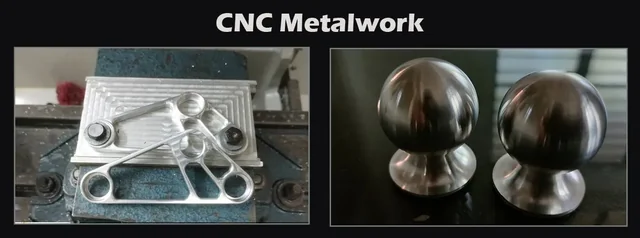
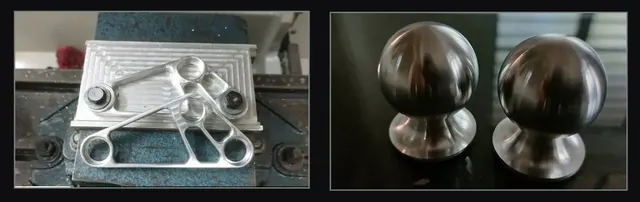
Slideshow: images only, without the CNC Metalwork heading
Claude-Session: https://claude.ai/code/session_019yPekh2JPsEvTpvfRCcA7z

diff --git a/1year/edmScooter/index.html b/1year/edmScooter/index.html
@@ -50,9 +50,9 @@
 </header>
 <main>
 <section class="banner" aria-label="Workshop highlights">
-<picture><source srcset="../../img/banner/04-light-640.webp 640w, ../../img/banner/04-light.webp 1224w" sizes="100vw" media="(prefers-color-scheme: light)"><img src="../../img/banner/04.webp" srcset="../../img/banner/04-640.webp 640w, ../../img/banner/04.webp 1224w" sizes="100vw" alt="CNC metalwork made in the TKMCE workshop" width="1224" height="455" decoding="async" class="on" fetchpriority="high"></picture>
-<picture><source srcset="../../img/banner/05-light-640.webp 640w, ../../img/banner/05-light.webp 1224w" sizes="100vw" media="(prefers-color-scheme: light)"><img src="../../img/banner/05.webp" srcset="../../img/banner/05-640.webp 640w, ../../img/banner/05.webp 1224w" sizes="100vw" alt="CNC metalwork made in the TKMCE workshop" width="1224" height="455" decoding="async" loading="lazy"></picture>
-<picture><source srcset="../../img/banner/07-light-640.webp 640w, ../../img/banner/07-light.webp 1224w" sizes="100vw" media="(prefers-color-scheme: light)"><img src="../../img/banner/07.webp" srcset="../../img/banner/07-640.webp 640w, ../../img/banner/07.webp 1224w" sizes="100vw" alt="CNC-machined chess pieces, and an India map shape made by CNC milling and wire EDM" width="1224" height="455" decoding="async" loading="lazy"></picture>
+<picture><source srcset="../../img/banner/04-light-640.webp 640w, ../../img/banner/04-light.webp 1224w" sizes="100vw" media="(prefers-color-scheme: light)"><img src="../../img/banner/04.webp" srcset="../../img/banner/04-640.webp 640w, ../../img/banner/04.webp 1224w" sizes="100vw" alt="CNC metalwork made in the TKMCE workshop" width="1224" height="386" decoding="async" class="on" fetchpriority="high"></picture>
+<picture><source srcset="../../img/banner/05-light-640.webp 640w, ../../img/banner/05-light.webp 1224w" sizes="100vw" media="(prefers-color-scheme: light)"><img src="../../img/banner/05.webp" srcset="../../img/banner/05-640.webp 640w, ../../img/banner/05.webp 1224w" sizes="100vw" alt="CNC metalwork made in the TKMCE workshop" width="1224" height="386" decoding="async" loading="lazy"></picture>
+<picture><source srcset="../../img/banner/07-light-640.webp 640w, ../../img/banner/07-light.webp 1224w" sizes="100vw" media="(prefers-color-scheme: light)"><img src="../../img/banner/07.webp" srcset="../../img/banner/07-640.webp 640w, ../../img/banner/07.webp 1224w" sizes="100vw" alt="CNC-machined chess pieces, and an India map shape made by CNC milling and wire EDM" width="1224" height="386" decoding="async" loading="lazy"></picture>
 <div class="dots"><button class="dot" type="button" aria-label="Show highlight 1" aria-current="true"></button><button class="dot" type="button" aria-label="Show highlight 2" aria-current="false"></button><button class="dot" type="button" aria-label="Show highlight 3" aria-current="false"></button></div>
 </section>
 <article class="job">

diff --git a/1year/latheBishop/index.html b/1year/latheBishop/index.html
@@ -52,9 +52,9 @@
 </header>
 <main>
 <section class="banner" aria-label="Workshop highlights">
-<picture><source srcset="../../img/banner/04-light-640.webp 640w, ../../img/banner/04-light.webp 1224w" sizes="100vw" media="(prefers-color-scheme: light)"><img src="../../img/banner/04.webp" srcset="../../img/banner/04-640.webp 640w, ../../img/banner/04.webp 1224w" sizes="100vw" alt="CNC metalwork made in the TKMCE workshop" width="1224" height="455" decoding="async" class="on" fetchpriority="high"></picture>
-<picture><source srcset="../../img/banner/05-light-640.webp 640w, ../../img/banner/05-light.webp 1224w" sizes="100vw" media="(prefers-color-scheme: light)"><img src="../../img/banner/05.webp" srcset="../../img/banner/05-640.webp 640w, ../../img/banner/05.webp 1224w" sizes="100vw" alt="CNC metalwork made in the TKMCE workshop" width="1224" height="455" decoding="async" loading="lazy"></picture>
-<picture><source srcset="../../img/banner/07-light-640.webp 640w, ../../img/banner/07-light.webp 1224w" sizes="100vw" media="(prefers-color-scheme: light)"><img src="../../img/banner/07.webp" srcset="../../img/banner/07-640.webp 640w, ../../img/banner/07.webp 1224w" sizes="100vw" alt="CNC-machined chess pieces, and an India map shape made by CNC milling and wire EDM" width="1224" height="455" decoding="async" loading="lazy"></picture>
+<picture><source srcset="../../img/banner/04-light-640.webp 640w, ../../img/banner/04-light.webp 1224w" sizes="100vw" media="(prefers-color-scheme: light)"><img src="../../img/banner/04.webp" srcset="../../img/banner/04-640.webp 640w, ../../img/banner/04.webp 1224w" sizes="100vw" alt="CNC metalwork made in the TKMCE workshop" width="1224" height="386" decoding="async" class="on" fetchpriority="high"></picture>
+<picture><source srcset="../../img/banner/05-light-640.webp 640w, ../../img/banner/05-light.webp 1224w" sizes="100vw" media="(prefers-color-scheme: light)"><img src="../../img/banner/05.webp" srcset="../../img/banner/05-640.webp 640w, ../../img/banner/05.webp 1224w" sizes="100vw" alt="CNC metalwork made in the TKMCE workshop" width="1224" height="386" decoding="async" loading="lazy"></picture>
+<picture><source srcset="../../img/banner/07-light-640.webp 640w, ../../img/banner/07-light.webp 1224w" sizes="100vw" media="(prefers-color-scheme: light)"><img src="../../img/banner/07.webp" srcset="../../img/banner/07-640.webp 640w, ../../img/banner/07.webp 1224w" sizes="100vw" alt="CNC-machined chess pieces, and an India map shape made by CNC milling and wire EDM" width="1224" height="386" decoding="async" loading="lazy"></picture>
 <div class="dots"><button class="dot" type="button" aria-label="Show highlight 1" aria-current="true"></button><button class="dot" type="button" aria-label="Show highlight 2" aria-current="false"></button><button class="dot" type="button" aria-label="Show highlight 3" aria-current="false"></button></div>
 </section>
 <article class="job">

diff --git a/1year/latheBowl/index.html b/1year/latheBowl/index.html
@@ -52,9 +52,9 @@
 </header>
 <main>
 <section class="banner" aria-label="Workshop highlights">
-<picture><source srcset="../../img/banner/04-light-640.webp 640w, ../../img/banner/04-light.webp 1224w" sizes="100vw" media="(prefers-color-scheme: light)"><img src="../../img/banner/04.webp" srcset="../../img/banner/04-640.webp 640w, ../../img/banner/04.webp 1224w" sizes="100vw" alt="CNC metalwork made in the TKMCE workshop" width="1224" height="455" decoding="async" class="on" fetchpriority="high"></picture>
-<picture><source srcset="../../img/banner/05-light-640.webp 640w, ../../img/banner/05-light.webp 1224w" sizes="100vw" media="(prefers-color-scheme: light)"><img src="../../img/banner/05.webp" srcset="../../img/banner/05-640.webp 640w, ../../img/banner/05.webp 1224w" sizes="100vw" alt="CNC metalwork made in the TKMCE workshop" width="1224" height="455" decoding="async" loading="lazy"></picture>
-<picture><source srcset="../../img/banner/07-light-640.webp 640w, ../../img/banner/07-light.webp 1224w" sizes="100vw" media="(prefers-color-scheme: light)"><img src="../../img/banner/07.webp" srcset="../../img/banner/07-640.webp 640w, ../../img/banner/07.webp 1224w" sizes="100vw" alt="CNC-machined chess pieces, and an India map shape made by CNC milling and wire EDM" width="1224" height="455" decoding="async" loading="lazy"></picture>
+<picture><source srcset="../../img/banner/04-light-640.webp 640w, ../../img/banner/04-light.webp 1224w" sizes="100vw" media="(prefers-color-scheme: light)"><img src="../../img/banner/04.webp" srcset="../../img/banner/04-640.webp 640w, ../../img/banner/04.webp 1224w" sizes="100vw" alt="CNC metalwork made in the TKMCE workshop" width="1224" height="386" decoding="async" class="on" fetchpriority="high"></picture>
+<picture><source srcset="../../img/banner/05-light-640.webp 640w, ../../img/banner/05-light.webp 1224w" sizes="100vw" media="(prefers-color-scheme: light)"><img src="../../img/banner/05.webp" srcset="../../img/banner/05-640.webp 640w, ../../img/banner/05.webp 1224w" sizes="100vw" alt="CNC metalwork made in the TKMCE workshop" width="1224" height="386" decoding="async" loading="lazy"></picture>
+<picture><source srcset="../../img/banner/07-light-640.webp 640w, ../../img/banner/07-light.webp 1224w" sizes="100vw" media="(prefers-color-scheme: light)"><img src="../../img/banner/07.webp" srcset="../../img/banner/07-640.webp 640w, ../../img/banner/07.webp 1224w" sizes="100vw" alt="CNC-machined chess pieces, and an India map shape made by CNC milling and wire EDM" width="1224" height="386" decoding="async" loading="lazy"></picture>
 <div class="dots"><button class="dot" type="button" aria-label="Show highlight 1" aria-current="true"></button><button class="dot" type="button" aria-label="Show highlight 2" aria-current="false"></button><button class="dot" type="button" aria-label="Show highlight 3" aria-current="false"></button></div>
 </section>
 <article class="job">

diff --git a/1year/latheRook/index.html b/1year/latheRook/index.html
@@ -52,9 +52,9 @@
 </header>
 <main>
 <section class="banner" aria-label="Workshop highlights">
-<picture><source srcset="../../img/banner/04-light-640.webp 640w, ../../img/banner/04-light.webp 1224w" sizes="100vw" media="(prefers-color-scheme: light)"><img src="../../img/banner/04.webp" srcset="../../img/banner/04-640.webp 640w, ../../img/banner/04.webp 1224w" sizes="100vw" alt="CNC metalwork made in the TKMCE workshop" width="1224" height="455" decoding="async" class="on" fetchpriority="high"></picture>
-<picture><source srcset="../../img/banner/05-light-640.webp 640w, ../../img/banner/05-light.webp 1224w" sizes="100vw" media="(prefers-color-scheme: light)"><img src="../../img/banner/05.webp" srcset="../../img/banner/05-640.webp 640w, ../../img/banner/05.webp 1224w" sizes="100vw" alt="CNC metalwork made in the TKMCE workshop" width="1224" height="455" decoding="async" loading="lazy"></picture>
-<picture><source srcset="../../img/banner/07-light-640.webp 640w, ../../img/banner/07-light.webp 1224w" sizes="100vw" media="(prefers-color-scheme: light)"><img src="../../img/banner/07.webp" srcset="../../img/banner/07-640.webp 640w, ../../img/banner/07.webp 1224w" sizes="100vw" alt="CNC-machined chess pieces, and an India map shape made by CNC milling and wire EDM" width="1224" height="455" decoding="async" loading="lazy"></picture>
+<picture><source srcset="../../img/banner/04-light-640.webp 640w, ../../img/banner/04-light.webp 1224w" sizes="100vw" media="(prefers-color-scheme: light)"><img src="../../img/banner/04.webp" srcset="../../img/banner/04-640.webp 640w, ../../img/banner/04.webp 1224w" sizes="100vw" alt="CNC metalwork made in the TKMCE workshop" width="1224" height="386" decoding="async" class="on" fetchpriority="high"></picture>
+<picture><source srcset="../../img/banner/05-light-640.webp 640w, ../../img/banner/05-light.webp 1224w" sizes="100vw" media="(prefers-color-scheme: light)"><img src="../../img/banner/05.webp" srcset="../../img/banner/05-640.webp 640w, ../../img/banner/05.webp 1224w" sizes="100vw" alt="CNC metalwork made in the TKMCE workshop" width="1224" height="386" decoding="async" loading="lazy"></picture>
+<picture><source srcset="../../img/banner/07-light-640.webp 640w, ../../img/banner/07-light.webp 1224w" sizes="100vw" media="(prefers-color-scheme: light)"><img src="../../img/banner/07.webp" srcset="../../img/banner/07-640.webp 640w, ../../img/banner/07.webp 1224w" sizes="100vw" alt="CNC-machined chess pieces, and an India map shape made by CNC milling and wire EDM" width="1224" height="386" decoding="async" loading="lazy"></picture>
 <div class="dots"><button class="dot" type="button" aria-label="Show highlight 1" aria-current="true"></button><button class="dot" type="button" aria-label="Show highlight 2" aria-current="false"></button><button class="dot" type="button" aria-label="Show highlight 3" aria-current="false"></button></div>
 </section>
 <article class="job">

diff --git a/cncLathe/index.html b/cncLathe/index.html
@@ -52,9 +52,9 @@
 </header>
 <main>
 <section class="banner" aria-label="Workshop highlights">
-<picture><source srcset="../img/banner/04-light-640.webp 640w, ../img/banner/04-light.webp 1224w" sizes="100vw" media="(prefers-color-scheme: light)"><img src="../img/banner/04.webp" srcset="../img/banner/04-640.webp 640w, ../img/banner/04.webp 1224w" sizes="100vw" alt="CNC metalwork made in the TKMCE workshop" width="1224" height="455" decoding="async" class="on" fetchpriority="high"></picture>
-<picture><source srcset="../img/banner/05-light-640.webp 640w, ../img/banner/05-light.webp 1224w" sizes="100vw" media="(prefers-color-scheme: light)"><img src="../img/banner/05.webp" srcset="../img/banner/05-640.webp 640w, ../img/banner/05.webp 1224w" sizes="100vw" alt="CNC metalwork made in the TKMCE workshop" width="1224" height="455" decoding="async" loading="lazy"></picture>
-<picture><source srcset="../img/banner/07-light-640.webp 640w, ../img/banner/07-light.webp 1224w" sizes="100vw" media="(prefers-color-scheme: light)"><img src="../img/banner/07.webp" srcset="../img/banner/07-640.webp 640w, ../img/banner/07.webp 1224w" sizes="100vw" alt="CNC-machined chess pieces, and an India map shape made by CNC milling and wire EDM" width="1224" height="455" decoding="async" loading="lazy"></picture>
+<picture><source srcset="../img/banner/04-light-640.webp 640w, ../img/banner/04-light.webp 1224w" sizes="100vw" media="(prefers-color-scheme: light)"><img src="../img/banner/04.webp" srcset="../img/banner/04-640.webp 640w, ../img/banner/04.webp 1224w" sizes="100vw" alt="CNC metalwork made in the TKMCE workshop" width="1224" height="386" decoding="async" class="on" fetchpriority="high"></picture>
+<picture><source srcset="../img/banner/05-light-640.webp 640w, ../img/banner/05-light.webp 1224w" sizes="100vw" media="(prefers-color-scheme: light)"><img src="../img/banner/05.webp" srcset="../img/banner/05-640.webp 640w, ../img/banner/05.webp 1224w" sizes="100vw" alt="CNC metalwork made in the TKMCE workshop" width="1224" height="386" decoding="async" loading="lazy"></picture>
+<picture><source srcset="../img/banner/07-light-640.webp 640w, ../img/banner/07-light.webp 1224w" sizes="100vw" media="(prefers-color-scheme: light)"><img src="../img/banner/07.webp" srcset="../img/banner/07-640.webp 640w, ../img/banner/07.webp 1224w" sizes="100vw" alt="CNC-machined chess pieces, and an India map shape made by CNC milling and wire EDM" width="1224" height="386" decoding="async" loading="lazy"></picture>
 <div class="dots"><button class="dot" type="button" aria-label="Show highlight 1" aria-current="true"></button><button class="dot" type="button" aria-label="Show highlight 2" aria-current="false"></button><button class="dot" type="button" aria-label="Show highlight 3" aria-current="false"></button></div>
 </section>
 <article class="job">

diff --git a/cncMilling/index.html b/cncMilling/index.html
@@ -52,9 +52,9 @@
 </header>
 <main>
 <section class="banner" aria-label="Workshop highlights">
-<picture><source srcset="../img/banner/04-light-640.webp 640w, ../img/banner/04-light.webp 1224w" sizes="100vw" media="(prefers-color-scheme: light)"><img src="../img/banner/04.webp" srcset="../img/banner/04-640.webp 640w, ../img/banner/04.webp 1224w" sizes="100vw" alt="CNC metalwork made in the TKMCE workshop" width="1224" height="455" decoding="async" class="on" fetchpriority="high"></picture>
-<picture><source srcset="../img/banner/05-light-640.webp 640w, ../img/banner/05-light.webp 1224w" sizes="100vw" media="(prefers-color-scheme: light)"><img src="../img/banner/05.webp" srcset="../img/banner/05-640.webp 640w, ../img/banner/05.webp 1224w" sizes="100vw" alt="CNC metalwork made in the TKMCE workshop" width="1224" height="455" decoding="async" loading="lazy"></picture>
-<picture><source srcset="../img/banner/07-light-640.webp 640w, ../img/banner/07-light.webp 1224w" sizes="100vw" media="(prefers-color-scheme: light)"><img src="../img/banner/07.webp" srcset="../img/banner/07-640.webp 640w, ../img/banner/07.webp 1224w" sizes="100vw" alt="CNC-machined chess pieces, and an India map shape made by CNC milling and wire EDM" width="1224" height="455" decoding="async" loading="lazy"></picture>
+<picture><source srcset="../img/banner/04-light-640.webp 640w, ../img/banner/04-light.webp 1224w" sizes="100vw" media="(prefers-color-scheme: light)"><img src="../img/banner/04.webp" srcset="../img/banner/04-640.webp 640w, ../img/banner/04.webp 1224w" sizes="100vw" alt="CNC metalwork made in the TKMCE workshop" width="1224" height="386" decoding="async" class="on" fetchpriority="high"></picture>
+<picture><source srcset="../img/banner/05-light-640.webp 640w, ../img/banner/05-light.webp 1224w" sizes="100vw" media="(prefers-color-scheme: light)"><img src="../img/banner/05.webp" srcset="../img/banner/05-640.webp 640w, ../img/banner/05.webp 1224w" sizes="100vw" alt="CNC metalwork made in the TKMCE workshop" width="1224" height="386" decoding="async" loading="lazy"></picture>
+<picture><source srcset="../img/banner/07-light-640.webp 640w, ../img/banner/07-light.webp 1224w" sizes="100vw" media="(prefers-color-scheme: light)"><img src="../img/banner/07.webp" srcset="../img/banner/07-640.webp 640w, ../img/banner/07.webp 1224w" sizes="100vw" alt="CNC-machined chess pieces, and an India map shape made by CNC milling and wire EDM" width="1224" height="386" decoding="async" loading="lazy"></picture>
 <div class="dots"><button class="dot" type="button" aria-label="Show highlight 1" aria-current="true"></button><button class="dot" type="button" aria-label="Show highlight 2" aria-current="false"></button><button class="dot" type="button" aria-label="Show highlight 3" aria-current="false"></button></div>
 </section>
 <article class="job">

diff --git a/cncMillingSub/index.html b/cncMillingSub/index.html
@@ -52,9 +52,9 @@
 </header>
 <main>
 <section class="banner" aria-label="Workshop highlights">
-<picture><source srcset="../img/banner/04-light-640.webp 640w, ../img/banner/04-light.webp 1224w" sizes="100vw" media="(prefers-color-scheme: light)"><img src="../img/banner/04.webp" srcset="../img/banner/04-640.webp 640w, ../img/banner/04.webp 1224w" sizes="100vw" alt="CNC metalwork made in the TKMCE workshop" width="1224" height="455" decoding="async" class="on" fetchpriority="high"></picture>
-<picture><source srcset="../img/banner/05-light-640.webp 640w, ../img/banner/05-light.webp 1224w" sizes="100vw" media="(prefers-color-scheme: light)"><img src="../img/banner/05.webp" srcset="../img/banner/05-640.webp 640w, ../img/banner/05.webp 1224w" sizes="100vw" alt="CNC metalwork made in the TKMCE workshop" width="1224" height="455" decoding="async" loading="lazy"></picture>
-<picture><source srcset="../img/banner/07-light-640.webp 640w, ../img/banner/07-light.webp 1224w" sizes="100vw" media="(prefers-color-scheme: light)"><img src="../img/banner/07.webp" srcset="../img/banner/07-640.webp 640w, ../img/banner/07.webp 1224w" sizes="100vw" alt="CNC-machined chess pieces, and an India map shape made by CNC milling and wire EDM" width="1224" height="455" decoding="async" loading="lazy"></picture>
+<picture><source srcset="../img/banner/04-light-640.webp 640w, ../img/banner/04-light.webp 1224w" sizes="100vw" media="(prefers-color-scheme: light)"><img src="../img/banner/04.webp" srcset="../img/banner/04-640.webp 640w, ../img/banner/04.webp 1224w" sizes="100vw" alt="CNC metalwork made in the TKMCE workshop" width="1224" height="386" decoding="async" class="on" fetchpriority="high"></picture>
+<picture><source srcset="../img/banner/05-light-640.webp 640w, ../img/banner/05-light.webp 1224w" sizes="100vw" media="(prefers-color-scheme: light)"><img src="../img/banner/05.webp" srcset="../img/banner/05-640.webp 640w, ../img/banner/05.webp 1224w" sizes="100vw" alt="CNC metalwork made in the TKMCE workshop" width="1224" height="386" decoding="async" loading="lazy"></picture>
+<picture><source srcset="../img/banner/07-light-640.webp 640w, ../img/banner/07-light.webp 1224w" sizes="100vw" media="(prefers-color-scheme: light)"><img src="../img/banner/07.webp" srcset="../img/banner/07-640.webp 640w, ../img/banner/07.webp 1224w" sizes="100vw" alt="CNC-machined chess pieces, and an India map shape made by CNC milling and wire EDM" width="1224" height="386" decoding="async" loading="lazy"></picture>
 <div class="dots"><button class="dot" type="button" aria-label="Show highlight 1" aria-current="true"></button><button class="dot" type="button" aria-label="Show highlight 2" aria-current="false"></button><button class="dot" type="button" aria-label="Show highlight 3" aria-current="false"></button></div>
 </section>
 <article class="job">

diff --git a/pneumaticCircuit/index.html b/pneumaticCircuit/index.html
@@ -50,9 +50,9 @@
 </header>
 <main>
 <section class="banner" aria-label="Workshop highlights">
-<picture><source srcset="../img/banner/04-light-640.webp 640w, ../img/banner/04-light.webp 1224w" sizes="100vw" media="(prefers-color-scheme: light)"><img src="../img/banner/04.webp" srcset="../img/banner/04-640.webp 640w, ../img/banner/04.webp 1224w" sizes="100vw" alt="CNC metalwork made in the TKMCE workshop" width="1224" height="455" decoding="async" class="on" fetchpriority="high"></picture>
-<picture><source srcset="../img/banner/05-light-640.webp 640w, ../img/banner/05-light.webp 1224w" sizes="100vw" media="(prefers-color-scheme: light)"><img src="../img/banner/05.webp" srcset="../img/banner/05-640.webp 640w, ../img/banner/05.webp 1224w" sizes="100vw" alt="CNC metalwork made in the TKMCE workshop" width="1224" height="455" decoding="async" loading="lazy"></picture>
-<picture><source srcset="../img/banner/07-light-640.webp 640w, ../img/banner/07-light.webp 1224w" sizes="100vw" media="(prefers-color-scheme: light)"><img src="../img/banner/07.webp" srcset="../img/banner/07-640.webp 640w, ../img/banner/07.webp 1224w" sizes="100vw" alt="CNC-machined chess pieces, and an India map shape made by CNC milling and wire EDM" width="1224" height="455" decoding="async" loading="lazy"></picture>
+<picture><source srcset="../img/banner/04-light-640.webp 640w, ../img/banner/04-light.webp 1224w" sizes="100vw" media="(prefers-color-scheme: light)"><img src="../img/banner/04.webp" srcset="../img/banner/04-640.webp 640w, ../img/banner/04.webp 1224w" sizes="100vw" alt="CNC metalwork made in the TKMCE workshop" width="1224" height="386" decoding="async" class="on" fetchpriority="high"></picture>
+<picture><source srcset="../img/banner/05-light-640.webp 640w, ../img/banner/05-light.webp 1224w" sizes="100vw" media="(prefers-color-scheme: light)"><img src="../img/banner/05.webp" srcset="../img/banner/05-640.webp 640w, ../img/banner/05.webp 1224w" sizes="100vw" alt="CNC metalwork made in the TKMCE workshop" width="1224" height="386" decoding="async" loading="lazy"></picture>
+<picture><source srcset="../img/banner/07-light-640.webp 640w, ../img/banner/07-light.webp 1224w" sizes="100vw" media="(prefers-color-scheme: light)"><img src="../img/banner/07.webp" srcset="../img/banner/07-640.webp 640w, ../img/banner/07.webp 1224w" sizes="100vw" alt="CNC-machined chess pieces, and an India map shape made by CNC milling and wire EDM" width="1224" height="386" decoding="async" loading="lazy"></picture>
 <div class="dots"><button class="dot" type="button" aria-label="Show highlight 1" aria-current="true"></button><button class="dot" type="button" aria-label="Show highlight 2" aria-current="false"></button><button class="dot" type="button" aria-label="Show highlight 3" aria-current="false"></button></div>
 </section>
 <article class="job">

diff --git a/toolAndCutterGrinding/index.html b/toolAndCutterGrinding/index.html
@@ -50,9 +50,9 @@
 </header>
 <main>
 <section class="banner" aria-label="Workshop highlights">
-<picture><source srcset="../img/banner/04-light-640.webp 640w, ../img/banner/04-light.webp 1224w" sizes="100vw" media="(prefers-color-scheme: light)"><img src="../img/banner/04.webp" srcset="../img/banner/04-640.webp 640w, ../img/banner/04.webp 1224w" sizes="100vw" alt="CNC metalwork made in the TKMCE workshop" width="1224" height="455" decoding="async" class="on" fetchpriority="high"></picture>
-<picture><source srcset="../img/banner/05-light-640.webp 640w, ../img/banner/05-light.webp 1224w" sizes="100vw" media="(prefers-color-scheme: light)"><img src="../img/banner/05.webp" srcset="../img/banner/05-640.webp 640w, ../img/banner/05.webp 1224w" sizes="100vw" alt="CNC metalwork made in the TKMCE workshop" width="1224" height="455" decoding="async" loading="lazy"></picture>
-<picture><source srcset="../img/banner/07-light-640.webp 640w, ../img/banner/07-light.webp 1224w" sizes="100vw" media="(prefers-color-scheme: light)"><img src="../img/banner/07.webp" srcset="../img/banner/07-640.webp 640w, ../img/banner/07.webp 1224w" sizes="100vw" alt="CNC-machined chess pieces, and an India map shape made by CNC milling and wire EDM" width="1224" height="455" decoding="async" loading="lazy"></picture>
+<picture><source srcset="../img/banner/04-light-640.webp 640w, ../img/banner/04-light.webp 1224w" sizes="100vw" media="(prefers-color-scheme: light)"><img src="../img/banner/04.webp" srcset="../img/banner/04-640.webp 640w, ../img/banner/04.webp 1224w" sizes="100vw" alt="CNC metalwork made in the TKMCE workshop" width="1224" height="386" decoding="async" class="on" fetchpriority="high"></picture>
+<picture><source srcset="../img/banner/05-light-640.webp 640w, ../img/banner/05-light.webp 1224w" sizes="100vw" media="(prefers-color-scheme: light)"><img src="../img/banner/05.webp" srcset="../img/banner/05-640.webp 640w, ../img/banner/05.webp 1224w" sizes="100vw" alt="CNC metalwork made in the TKMCE workshop" width="1224" height="386" decoding="async" loading="lazy"></picture>
+<picture><source srcset="../img/banner/07-light-640.webp 640w, ../img/banner/07-light.webp 1224w" sizes="100vw" media="(prefers-color-scheme: light)"><img src="../img/banner/07.webp" srcset="../img/banner/07-640.webp 640w, ../img/banner/07.webp 1224w" sizes="100vw" alt="CNC-machined chess pieces, and an India map shape made by CNC milling and wire EDM" width="1224" height="386" decoding="async" loading="lazy"></picture>
 <div class="dots"><button class="dot" type="button" aria-label="Show highlight 1" aria-current="true"></button><button class="dot" type="button" aria-label="Show highlight 2" aria-current="false"></button><button class="dot" type="button" aria-label="Show highlight 3" aria-current="false"></button></div>
 </section>
 <article class="job">

diff --git a/css/style.css b/css/style.css
@@ -119,7 +119,7 @@ p { margin: 0 0 1rem; }
 
 .banner { position: relative; background: var(--bg); }
 .banner picture { display: contents; }
-.banner img { display: none; width: 100%; aspect-ratio: 1224 / 455; object-fit: cover; }
+.banner img { display: none; width: 100%; aspect-ratio: 1224 / 386; object-fit: cover; }
 .banner img.on { display: block; }
 .dots { display: flex; justify-content: center; gap: 0; padding: 2px; }
 /* 18 px touch target, 6 px visible dot */
